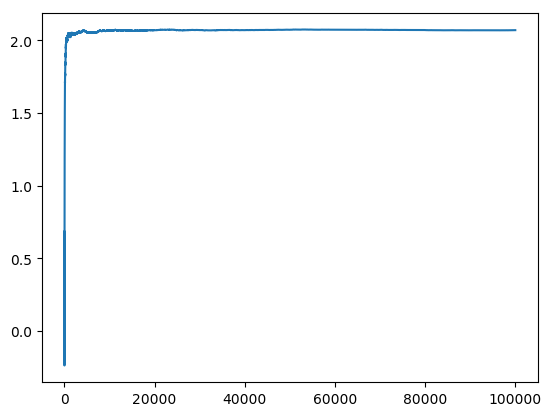
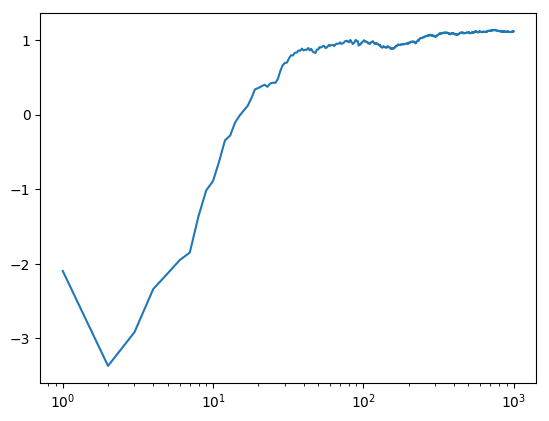
updated

diff --git a/bandit.py b/bandit.py
@@ -17,6 +17,7 @@ class bandit:
         self.avg_reward = 0.
 
     def getActionValue(self, action):
+        #get action reward using normal dist with mean as true value and variance 1
         return np.random.normal(self.true_rewards[action], 1, 1)[0]
 
     def epsilongreedy(self):
@@ -41,10 +42,11 @@ class bandit:
 
 
     def updateRewards(self, action, reward):
-        self.expected_rewards[action] = (self.expected_rewards[action] * (self.actioncounts[action]-1) + reward) / self.actioncounts[action]
+        #self.expected_rewards[action] = (self.expected_rewards[action] * (self.actioncounts[action]-1) + reward) / self.actioncounts[action]
+        self.expected_rewards[action] = self.expected_rewards[action] + (reward - self.expected_rewards[action])/self.actioncounts[action]
 
     def iterate(self, t):
-        #choose an action
+        #choose an action, return arm number
         action = self.chooseAction()
 
         #get the reward of the action
@@ -73,11 +75,12 @@ class bandit:
     def plot(self, savedir):
         timesteps = range(1, self.timesteps+1)
         plt.plot(timesteps, self.avg_reward_overtime)
+        plt.xscale('log')
         plt.savefig(self.name+'.png', bbox_inches='tight')
 
 
 #initialize bandit of size 10
 trybandit = bandit(k=10)
 #run bandit
-trybandit.start(2000, name="eps-greedy")
+trybandit.start(1000, name="eps-greedy")
 trybandit.plot("plots")
